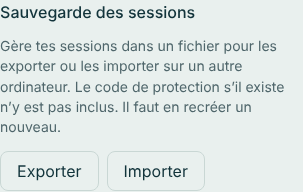
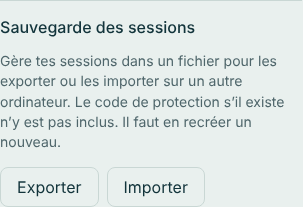
Mise à jour 2026-10-30 10:51 (v0.3.8)

diff --git a/src/main.js b/src/main.js
@@ -550,7 +550,7 @@ function sessionsPanelBody() {
   const hasSessions = app.sessions.length > 0;
   const codeForm = !hasPin || app.pinForm;
   let codeZone = '';
-  if (hasSessions || hasPin) {
+  if (hasSessions) {
     codeZone = codeForm
       ? `<div class="field pin"><span class="switch-label">${t('Code de protection')}</span>
           <p class="hint">${hasPin ? t('Ce code est unique : il est valable pour toutes les sessions.') : t('Valable pour toutes les sessions. Laisse vide pour utiliser 0000.')}</p>
@@ -563,10 +563,11 @@ function sessionsPanelBody() {
   return `<p class="hint">${t('Une session est une liste de chaînes. Le mode protection la verrouille : seules ces chaînes sont visibles, sans ajout, sans réglages ni liens externes.')}</p>
     <div class="sp-head"><span class="switch-label">${t('Mes sessions')}</span>${!hasPin && hasSessions ? '' : `<button type="button" data-act="session-new">${t('Nouvelle session')}</button>`}</div>
     ${list}
-    ${codeZone}`;
+    ${codeZone}
+    ${sessionsBackup()}`;
 }
 
-/** Sauvegarde et transfert des sessions (réglages Système). */
+/** Sauvegarde et transfert des sessions (en bas de l'onglet Sessions, sous un séparateur). */
 function sessionsBackup() {
   return `<div class="field backup"><span class="switch-label">${t('Sauvegarde des sessions')}</span>
       <p class="hint">${t('Gère tes sessions dans un fichier pour les exporter ou les importer sur un autre ordinateur. Le code de protection s’il existe n’y est pas inclus. Il faut en recréer un nouveau.')}</p>
@@ -756,8 +757,7 @@ function renderChannels() {
         </div>
       </div>
       ${toggle('autoupdate', t('Mise à jour automatique'), t('Télécharge et installe les nouvelles versions au démarrage, puis relance Kiosque.'), 'data-setting="auto_update"', s.auto_update === '1')}
-      ${toggle('autostart', t('Lancer au démarrage'), t('Kiosque s’ouvre en même temps que ton ordinateur.'), 'data-local="autostart"', app.autostart)}
-      ${sessionsBackup()}`,
+      ${toggle('autostart', t('Lancer au démarrage'), t('Kiosque s’ouvre en même temps que ton ordinateur.'), 'data-local="autostart"', app.autostart)}`,
   };
 
   view.classList.toggle('scrolled', view.scrollTop > 2);

diff --git a/src/style.css b/src/style.css
@@ -805,3 +805,4 @@ body.kid .tabs [data-tab="channels"] { display: none; }
 .field.pin .text { max-width: none; }
 .kid-badge { max-width: none; flex-shrink: 0; }
 .sessions-panel { margin-bottom: -4px; }
+.field.backup { margin-top: 18px; padding-top: 14px; border-top: 1px solid var(--line); }

diff --git a/README.md b/README.md
@@ -102,7 +102,7 @@ Le verrou est appliqué aussi côté Rust (l'interface seule ne suffit pas) ; le
 
 ![Sauvegarde des sessions : exporter, importer](docs/apercu-sauvegarde.png)
 
-**Sauvegarde et transfert** : dans Chaînes → Système, « Exporter » écrit `kiosque-sessions.json` dans le dossier Téléchargements (noms de sessions et chaînes, jamais le code de protection). Sur un autre ordinateur, « Importer » lit ce fichier sans jamais écraser une session existante (un nom déjà pris reçoit un numéro). Les chaînes que cet ordinateur ne suit pas encore sont listées, et « Suivre les chaînes manquantes » les ajoute (une plateforme désactivée n'est pas activée d'office). Si le nouvel ordinateur n'a pas encore de code de protection, Kiosque t'en fait créer un après l'import (laissé vide, il vaut `0000` : change-le). Un code déjà défini n'est jamais modifié par un import.
+**Sauvegarde et transfert** : dans Chaînes → Sessions (en bas), « Exporter » écrit `kiosque-sessions.json` dans le dossier Téléchargements (noms de sessions et chaînes, jamais le code de protection). Sur un autre ordinateur, « Importer » lit ce fichier sans jamais écraser une session existante (un nom déjà pris reçoit un numéro). Les chaînes que cet ordinateur ne suit pas encore sont listées, et « Suivre les chaînes manquantes » les ajoute (une plateforme désactivée n'est pas activée d'office). Si le nouvel ordinateur n'a pas encore de code de protection, Kiosque t'en fait créer un après l'import (laissé vide, il vaut `0000` : change-le). Un code déjà défini n'est jamais modifié par un import.
 
 **Code oublié** : il n'existe volontairement aucun moyen de le contourner. Il faut supprimer la base de données (`kiosque.sqlite3`, voir « Où sont les données ») et réajouter tes chaînes, ou réinstaller après avoir supprimé le dossier de données.
 
